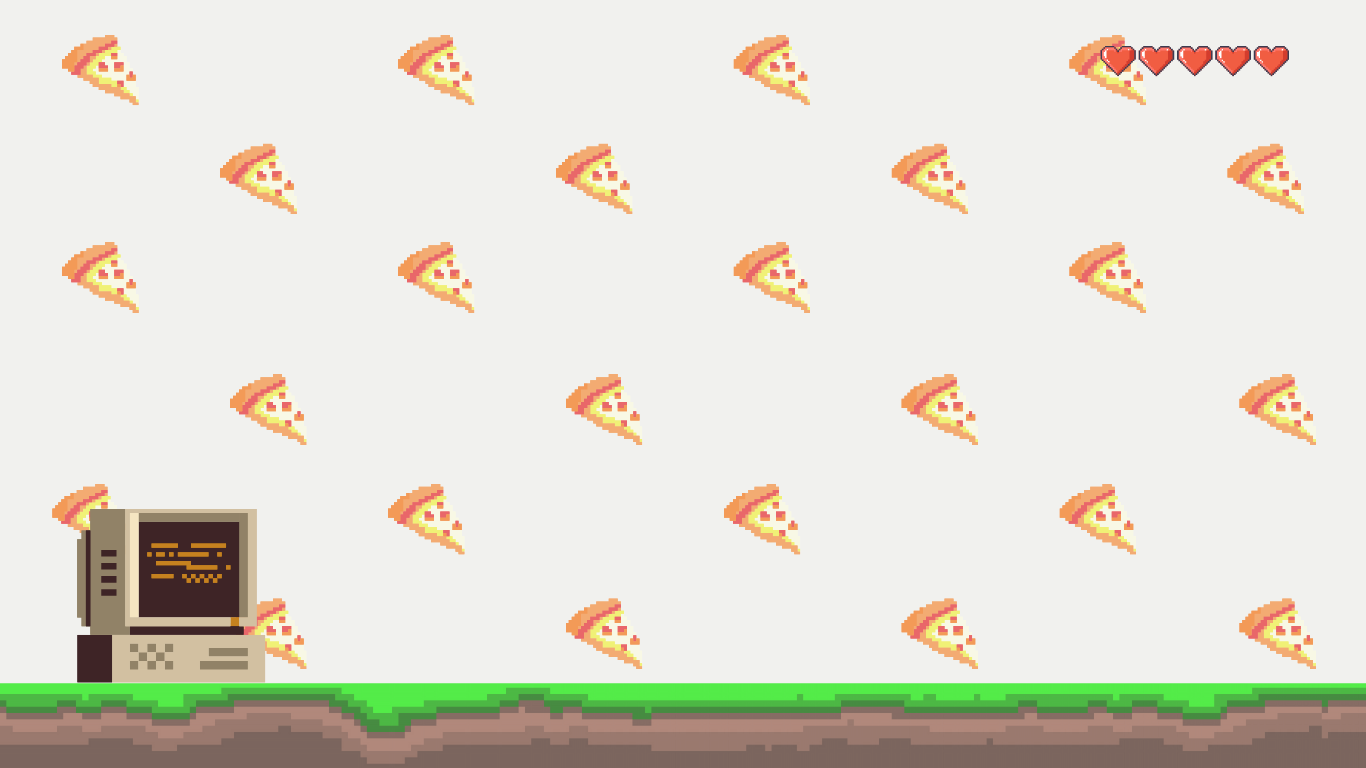
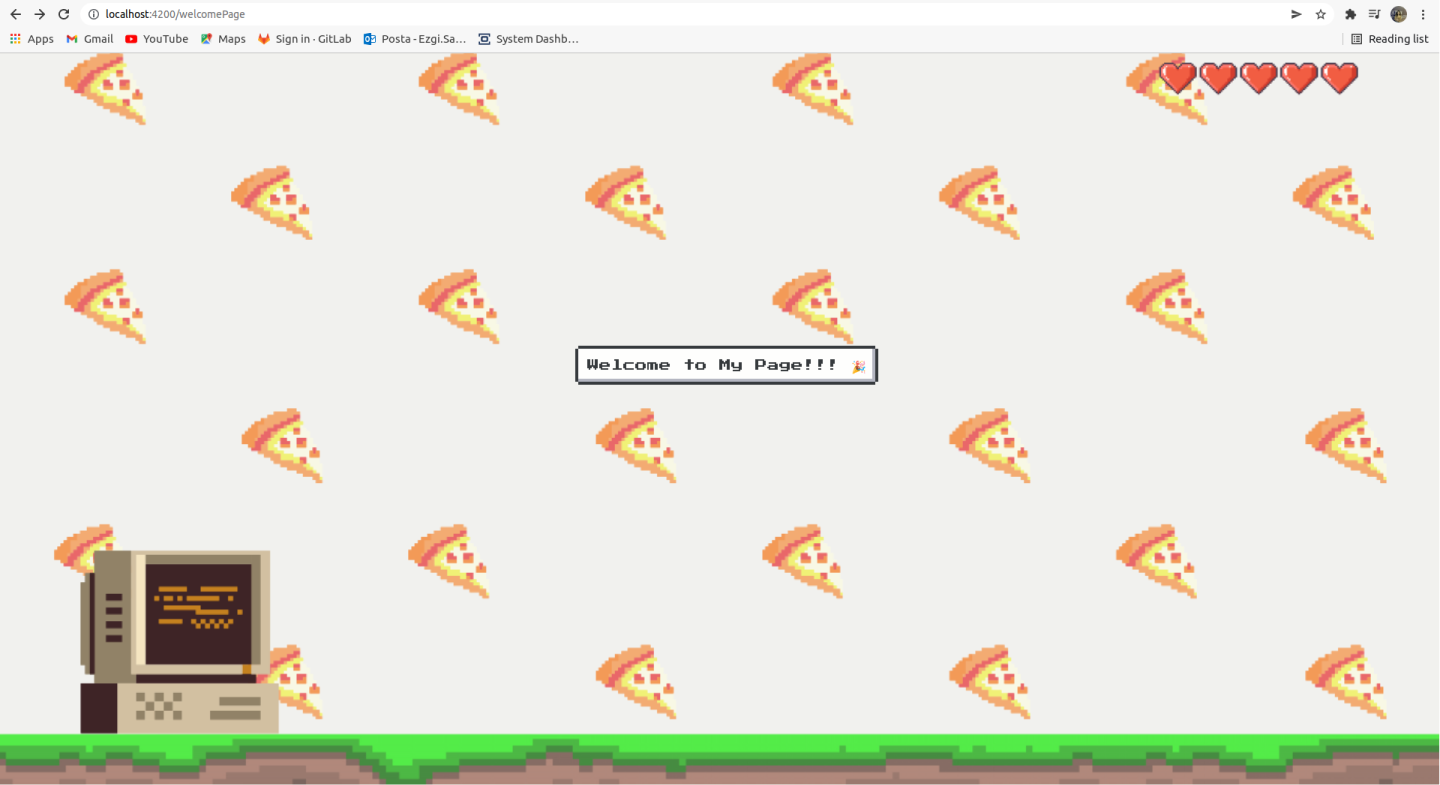
Css optimization

diff --git a/src/index.html b/src/index.html
@@ -7,6 +7,14 @@
   <meta name="viewport" content="width=device-width, initial-scale=1">
   <link rel="stylesheet" type="text/css" href="/node_modules/primeicons/primeicons.css" />
   <link rel="icon" type="image/x-icon" href="favicon.ico">
+  <!-- minify -->
+  <link href="https://unpkg.com/nes.css@2.3.0/css/nes.min.css" rel="stylesheet" />
+  <!-- latest -->
+  <link href="https://unpkg.com/nes.css@latest/css/nes.min.css" rel="stylesheet" />
+  <!-- core style only -->
+  <link href="https://unpkg.com/nes.css/css/nes-core.min.css" rel="stylesheet" />
+  <link href="https://fonts.googleapis.com/css?family=Press+Start+2P" rel="stylesheet">
+  <link href="https://unpkg.com/nes.css/css/nes.css" rel="stylesheet" />
 </head>
 <body>
   <app-root></app-root>

diff --git a/src/app/components/components/welcome-page/welcome-page.component.scss b/src/app/components/components/welcome-page/welcome-page.component.scss
@@ -17,23 +17,21 @@
   min-height: 50%;
 }
 
-.button-position{
+#button-position{
   position: fixed;
-  left: 50%;
+  left: 40%;
   top: 40%;
-  transform: translate(-50%, -50%);
+  opacity: 0.9;
 }
 
-::ng-deep .p-button {
-  // background: rgb(226, 131, 43);
-  // border: rgb(241, 100, 6);
-  color:black;
-  background: rgb(255, 255, 255);
-  border: 2px solid #000;
-  border-radius: 200%;
-  height:80px;
-  width:250px;
-}
+// ::ng-deep .p-button {
+//   // background: rgb(226, 131, 43);
+//   // border: rgb(241, 100, 6);
+
+//   background: rgb(255, 255, 255);
+//   border: 2px solid #000;
+
+// }
 
 
 

diff --git a/src/app/components/components/welcome-page/welcome-page.component.html b/src/app/components/components/welcome-page/welcome-page.component.html
@@ -2,5 +2,7 @@
   <img [src]="myImage" alt="" >
 </div>
 
-<button pButton [routerLink]="'/signIn'" class="button-position p-button p-button-raised p-button-rounded" label="Welcome to My Page!!! 🎉" ></button>
+<a [routerLink]="'/signIn'" id="button-position" class=" nes-btn" >Welcome to My Page!!! 🎉</a>
+
+<!-- <a class="nes-btn" href="#">Normal</a>    // p-button p-button-raised p-button-rounded-->
 

diff --git a/src/styles.scss b/src/styles.scss
@@ -1,3 +1,4 @@
 body{
   background: #F1F1EE;
 }
+
